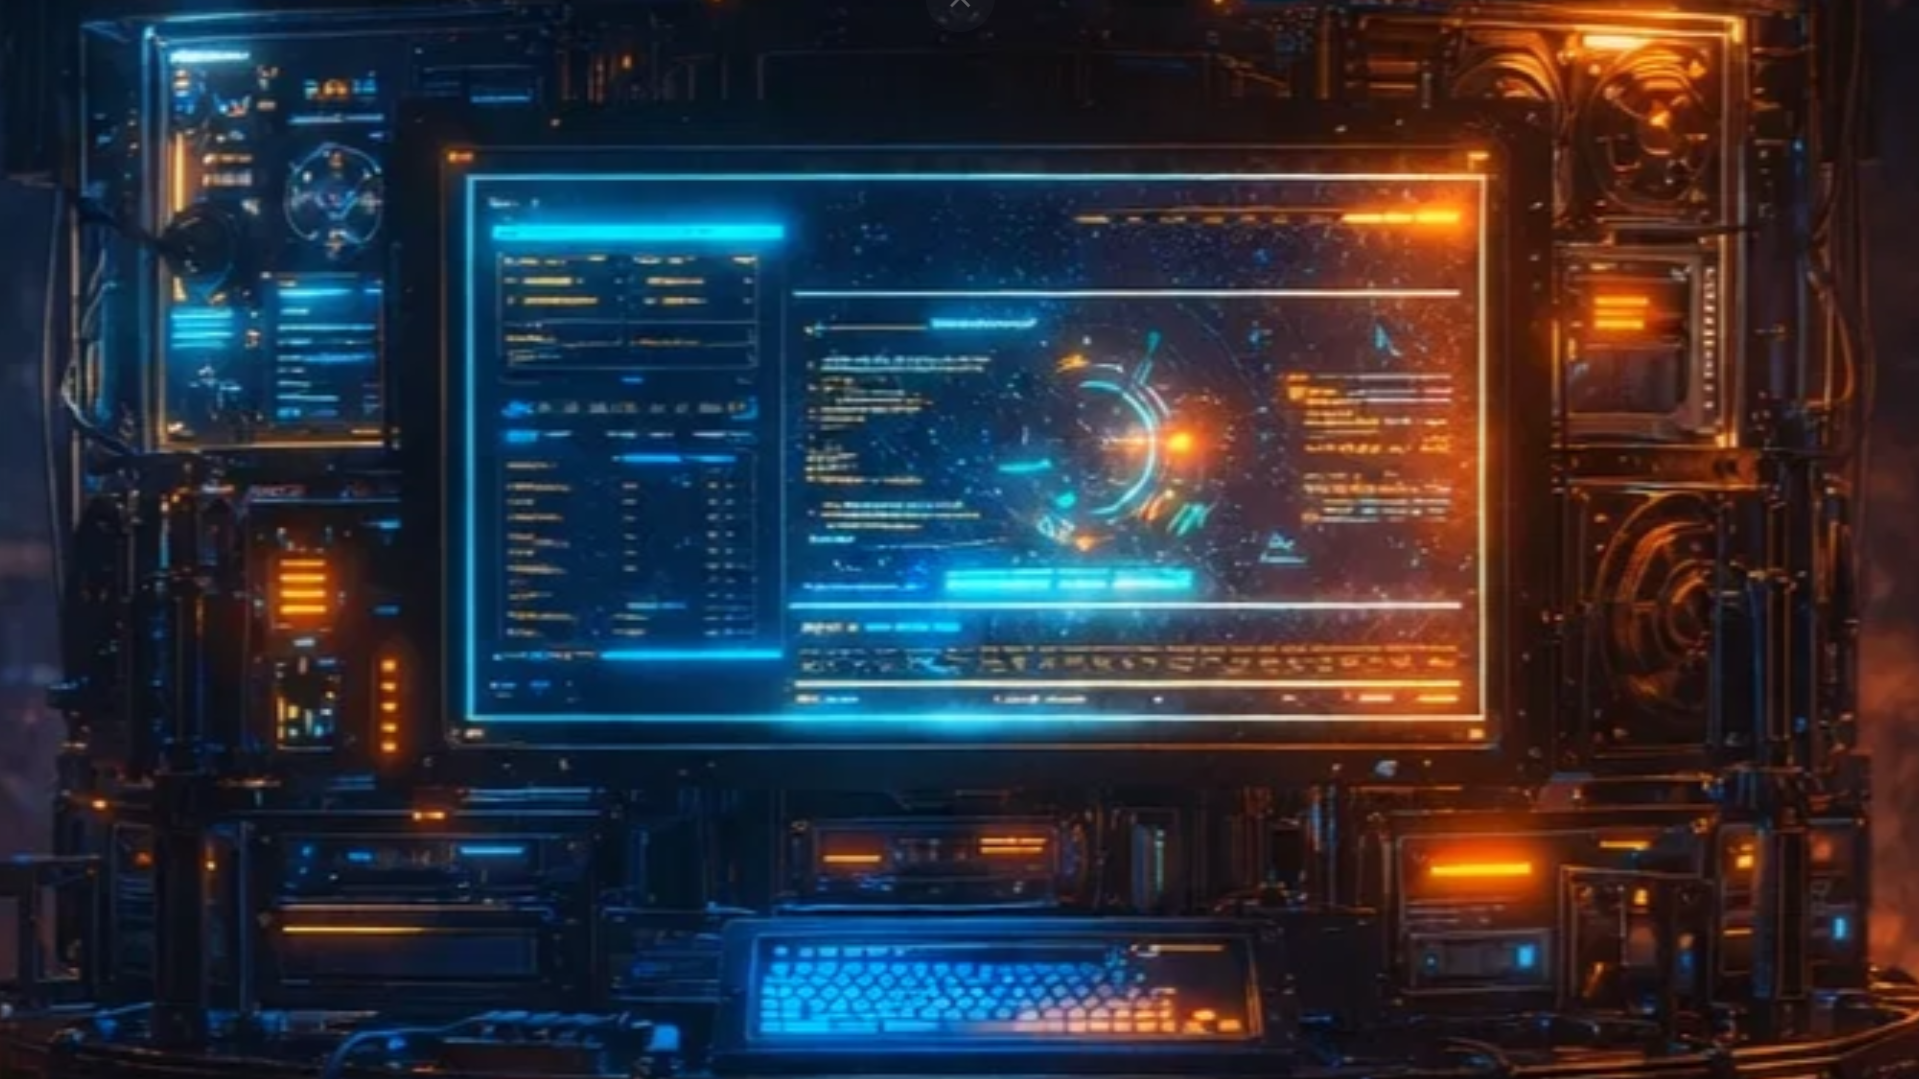
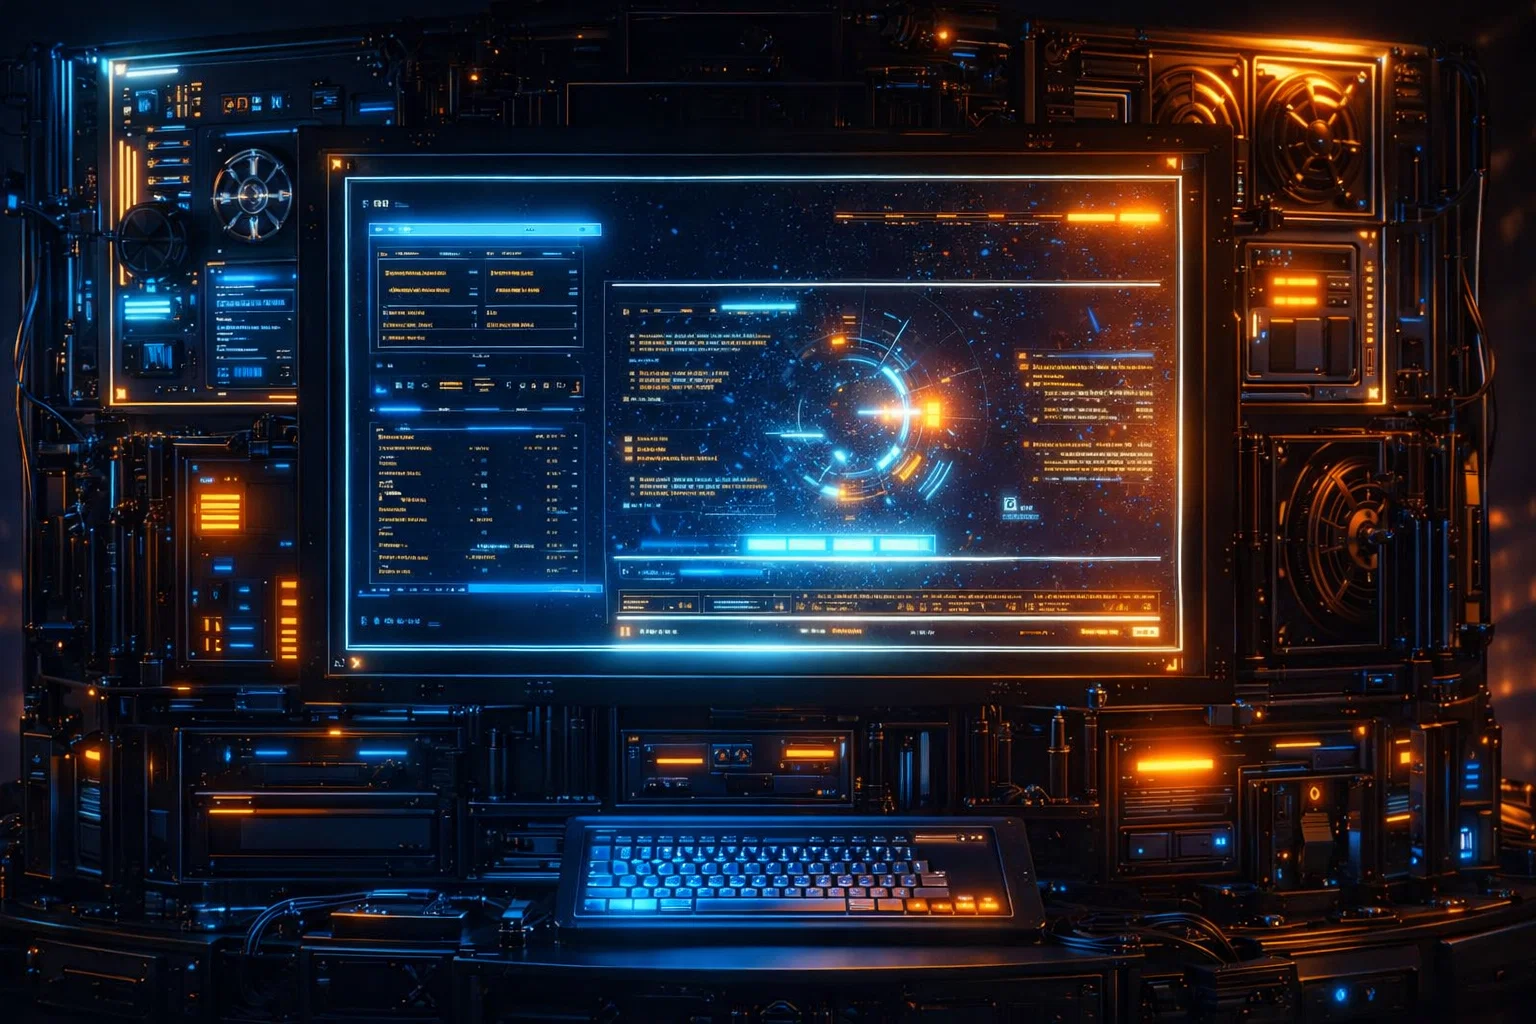
Refactor code structure for improved readability and maintainability

diff --git a/project/style.css b/project/style.css
@@ -110,84 +110,79 @@ body {
 
 
 #setupScreen {
-    background-image: url("./img/setupScreen.png");
+    background-image: 
+        linear-gradient(rgba(0, 0, 0, 0.6), rgba(0, 0, 0, 0.7)),
+        url("./img/setupScreen.png");
     background-size: cover;
     background-position: center;
     position: relative;
-    display: flex;
-    justify-content: center;
-    align-items: center;
     height: 100vh;
+    font-family: 'Audiowide', sans-serif;
 }
 
-#computerScreen {
+#setupUI {
     position: absolute;
-    width: 52%;
-    top: 15%;
-    left: 25%;
-}
-
-#computer {
-    position: absolute;
-    width: 800px;
+    top: 0;
+    left: 0;
+    width: 100%;
     height: 100%;
+    background: rgba(0, 0, 0, 0.6);
+    pointer-events: auto;
+}
+
+#roboter {
+    position: absolute;
+    top: 20%;
+    left: 23%;
+    width: 15%;
 }
 
 #nameInput {
-    position: absolute;
-    top: 42.7%;
-    left: 44%;
-    width: 35%;
-    height: 2%;
-    padding: 6px;
-    border: none;
-    background: white;
-    border-color: #E9ECF1;
-    color: black;
+    width: 300px;
+    padding: 10px;
+    background: rgba(0, 0, 0, 0.9);
+    border: 2px solid #00e5ff;
+    color: #00e5ff;
+    font-family: 'Audiowide', sans-serif;
+    font-size: 14px;
     outline: none;
+    box-shadow: 0 0 10px #00e5ff;
+    text-align: center;
+    text-transform: uppercase;
+}
+
+#inputRow {
+    position: absolute;
+    top: 40%;
+    left: 55%;
+    transform: translate(-50%, -50%);
+    display: flex;
+    flex-direction: column;
+    align-items: center;
 }
 
 #acceptBtn {
-    position: absolute;
-    top: 42%;
-    left: 77%;
-    background: limegreen;
-    border: none;
-    padding: 6px 10px;
+    width: 324px;
+    padding: 10px;
+    background: transparent;
+    border: 2px solid #00e5ff;
+    color: #00e5ff;
+    font-family: 'Audiowide', sans-serif;
+    font-size: 14px;
     cursor: pointer;
+    box-shadow: 0 0 10px #00e5ff;
+    transition: 0.2s;
 }
 
-#cmdOverlay{
-    position: fixed;
-    top:0;
-    left:0;
-    width:100%;
-    height:100vh;
-    background:rgba(0,0,0,0.75);
-    display:none;
-    justify-content:center;
-    align-items:center;
+#acceptBtn:hover {
+    background: #00e5ff;
+    color: black;
 }
 
-#cmdWindow{
-    width: 600px;
-    background: black;
-    color: #00ff00;
-    padding: 20px;
-    font-family: monospace;
-}
-
-#cmdText{
-    white-space: pre-line;
-}
-
-#cmdInput{
-    width: 100%;
-    background: black;
-    color: #00ff00;
-    border: none;
-    outline: none;
-    font-family: monospace;
+#nameInput:focus {
+    box-shadow: 
+        0 0 15px #00e5ff,
+        0 0 30px #00e5ff;
 }
 
 input[type="checkbox"] {

diff --git a/project/index.html b/project/index.html
@@ -48,17 +48,12 @@
 
     <!-- User SetUp -->
     <section id="setupScreen">
-        <img src="./img/computer.png" id="computerScreen">
-
-        <div id="computer">
-            <input type="text" id="nameInput" placeholder="Max Mustermann">
-            <button id="acceptBtn" onclick="accept()">✔</button>
-        </div>
-    </section>
-    <section id="cmdOverlay">
-        <div id="cmdWindow">
-            <pre id="cmdText"></pre>
-            <input type="text" id="cmdInput" autofocus>
+        <div id="setupUI">
+            <img src="./img/figure.png" alt="Roboter" id="roboter">
+            <div id="inputRow">
+                <input type="text" id="nameInput" placeholder="GIB DEINEN NAMEN EIN...">
+                <button id="acceptBtn" onclick="startGame()">START GAME</button>
+            </div>
         </div>
     </section>
 